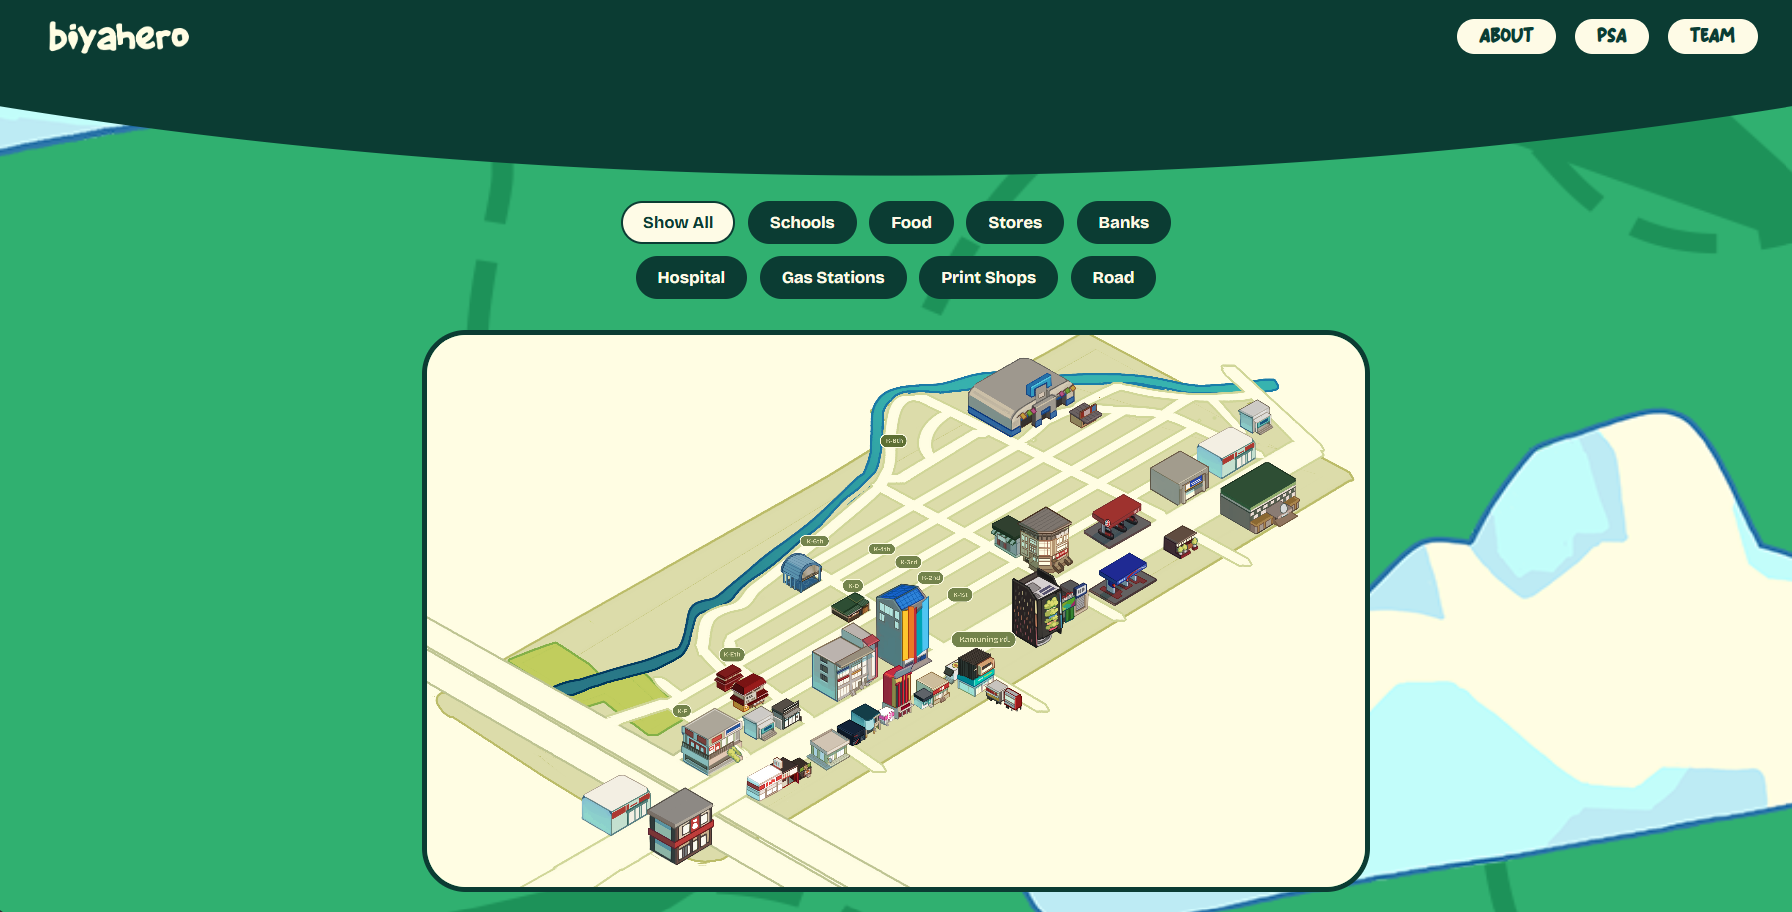
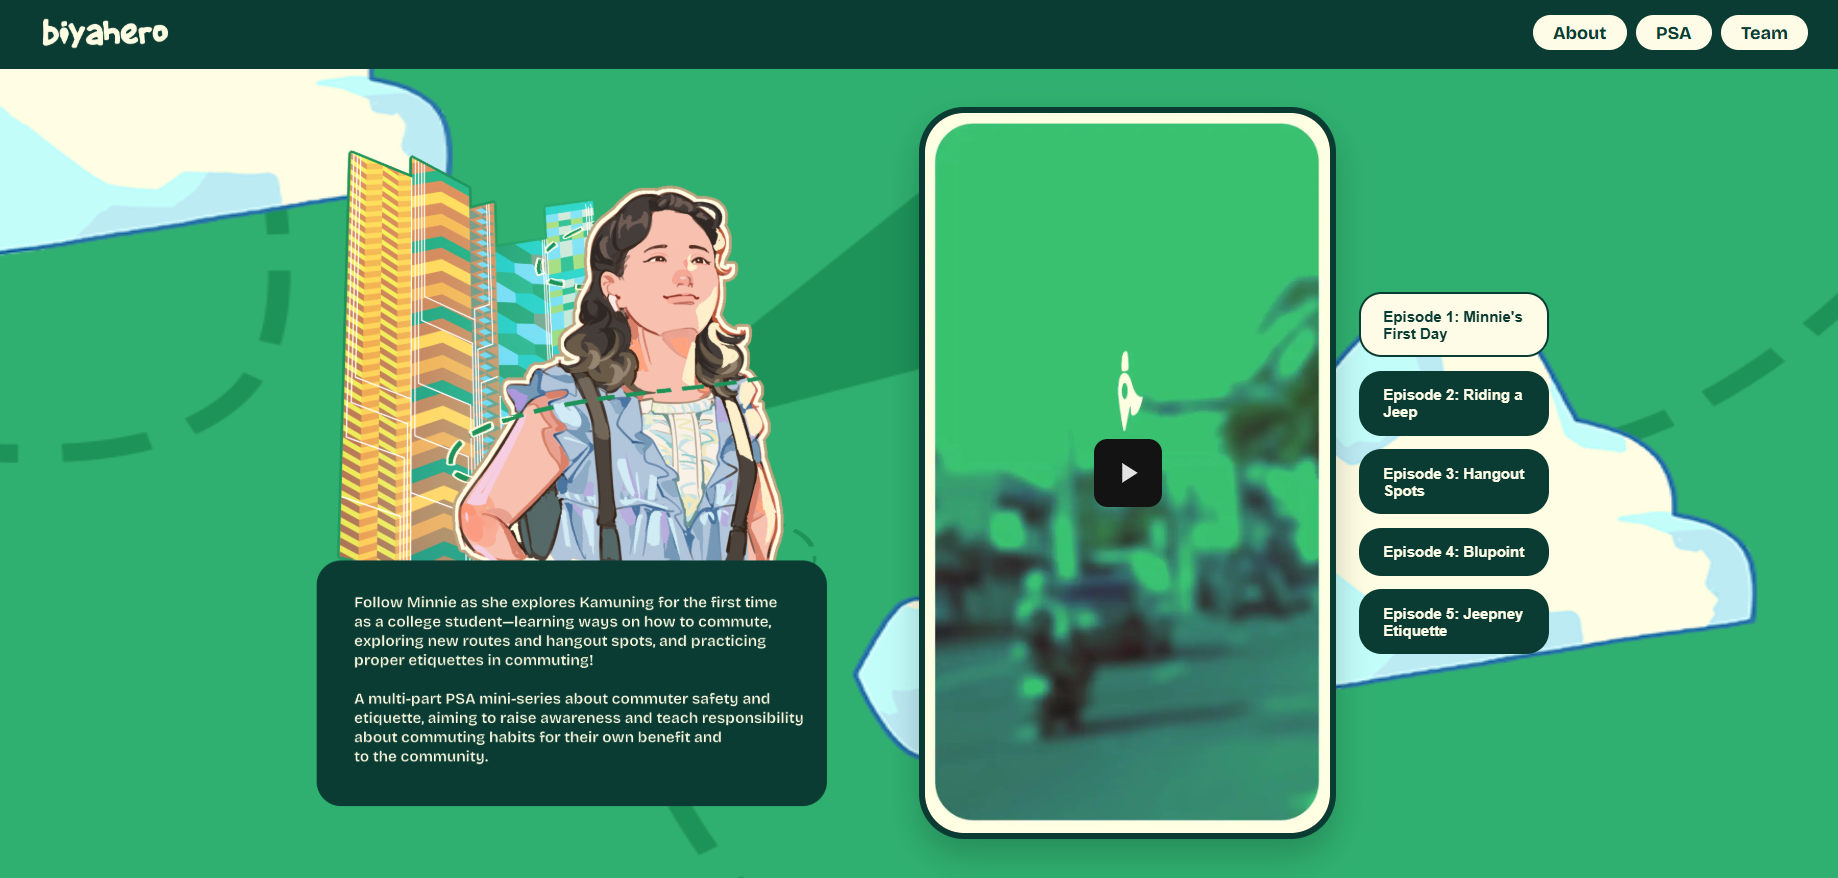
updated proj4 photo and added clickable link to project, updated links to open on new tab

diff --git a/index.html b/index.html
@@ -142,7 +142,11 @@
           /></a>
         </div>
         <div class="project-info">
-          <h2><a href="https://canva.link/10lyec1i9qvjly8">&lt;e/c></a></h2>
+          <h2>
+            <a href="https://canva.link/10lyec1i9qvjly8" target="_blank"
+              >&lt;e/c></a
+            >
+          </h2>
           <p>a simple graphic design and mock-up of my business card</p>
         </div>
       </div>
@@ -155,7 +159,9 @@
         </div>
         <div class="project-info">
           <h2>
-            <a href="https://canva.link/picv2cqumzpw4eg">half past ten</a>
+            <a href="https://canva.link/picv2cqumzpw4eg" target="_blank"
+              >half past ten</a
+            >
           </h2>
           <p>
             an art process book containing depictions of feeling left behind
@@ -178,7 +184,11 @@
           <img src="images/proj4.png" alt="Project 3" />
         </div>
         <div class="project-info">
-          <h2>BiyaHero</h2>
+          <h2>
+            <a href="https://biyahero-ph.vercel.app" target="_blank"
+              >BiyaHero</a
+            >
+          </h2>
           <p>
             a multimedia interactive website aiming to help students in
             navigating along kamuning
@@ -189,35 +199,37 @@
 
     <div id="divider"></div>
 
-    <div class="box12">
-      <h2 id="contact" style="margin-bottom: 0px">want to work with me?</h2>
-      <ul id="socmed" style="margin-top: 8px">
-        <li>
-          <a href="https://github.com/rxnbii"
-            ><img src="svgs/github_icon.svg" alt="Erin's Github"
-          /></a>
-        </li>
-        <li>
-          <a href="https://linkedin.com/in/rxnbii"
-            ><img src="svgs/linkedin_icon.svg" alt="Erin's LinkedIn"
-          /></a>
-        </li>
-        <li>
-          <a href="https://www.facebook.com/rxnbii/"
-            ><img src="svgs/fb_icon.svg" alt="Erin's Facebook"
-          /></a>
-        </li>
-        <li>
-          <a href="mailto:[email redacted]"
-            ><img src="svgs/gmail_icon.svg" alt="Send an Email"
-          /></a>
-        </li>
-        <li>
-          <a href="resume.html"
-            ><img src="svgs/download_icon.svg" alt="Erin's Resume"
-          /></a>
-        </li>
-      </ul>
-    </div>
+    <footer>
+      <div class="box12">
+        <h2 id="contact" style="margin-bottom: 0px">want to work with me?</h2>
+        <ul id="socmed" style="margin-top: 8px">
+          <li>
+            <a href="https://github.com/rxnbii" target="_blank"
+              ><img src="svgs/github_icon.svg" alt="Erin's Github"
+            /></a>
+          </li>
+          <li>
+            <a href="https://linkedin.com/in/rxnbii" target="_blank"
+              ><img src="svgs/linkedin_icon.svg" alt="Erin's LinkedIn"
+            /></a>
+          </li>
+          <li>
+            <a href="https://www.facebook.com/rxnbii/" target="_blank"
+              ><img src="svgs/fb_icon.svg" alt="Erin's Facebook"
+            /></a>
+          </li>
+          <li>
+            <a href="mailto:[email redacted]" target="_blank"
+              ><img src="svgs/gmail_icon.svg" alt="Send an Email"
+            /></a>
+          </li>
+          <li>
+            <a href="resume.html" target="_blank"
+              ><img src="svgs/download_icon.svg" alt="Erin's Resume"
+            /></a>
+          </li>
+        </ul>
+      </div>
+    </footer>
   </body>
 </html>